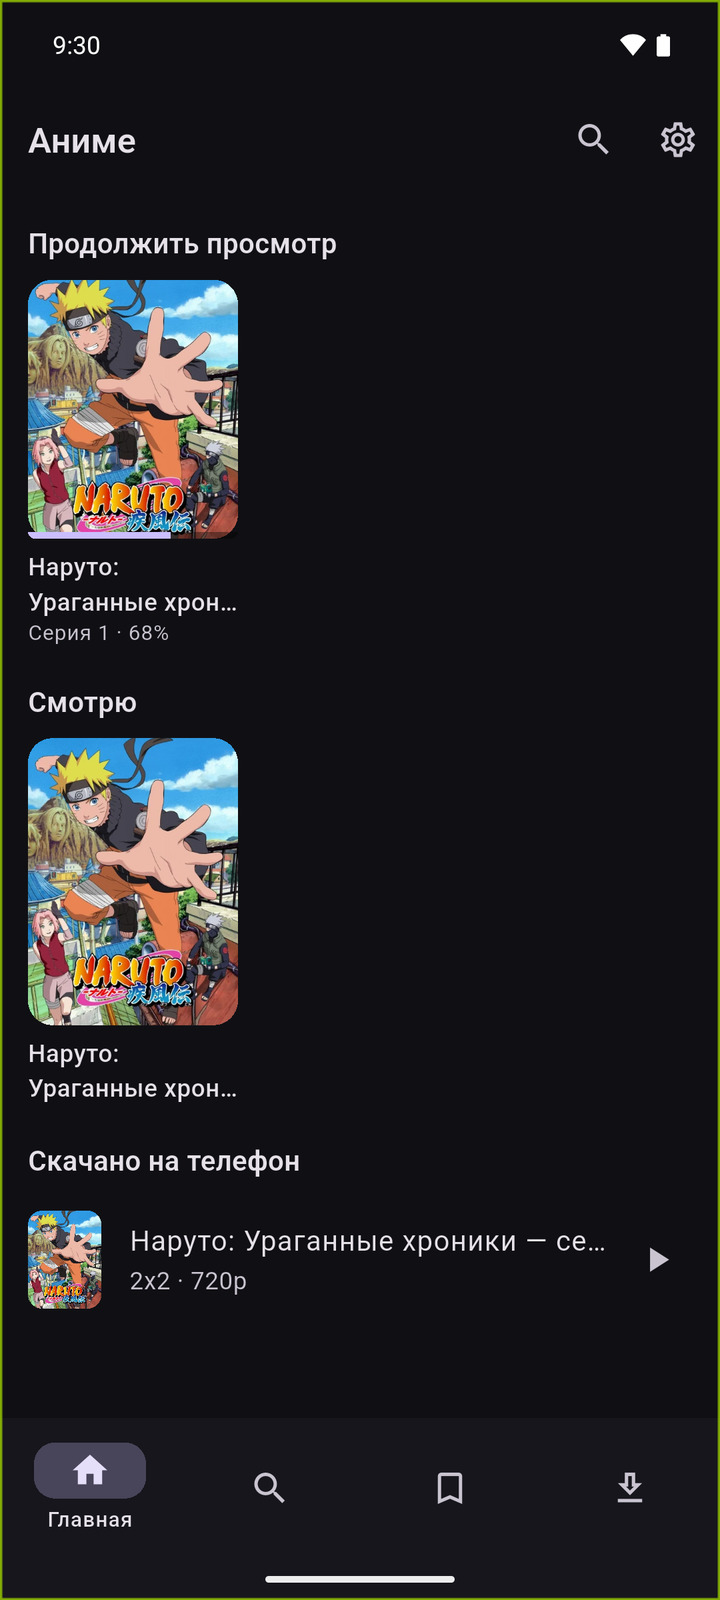
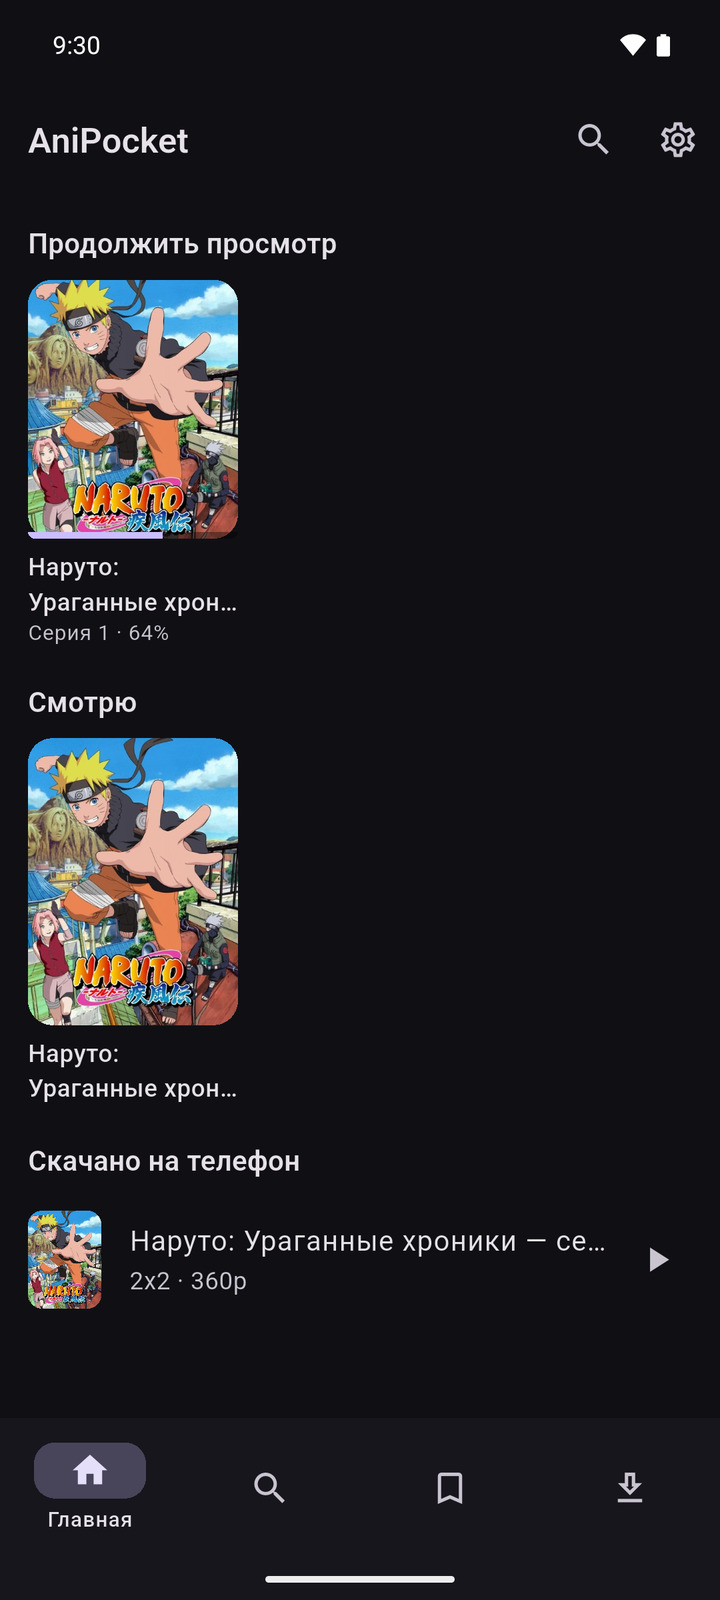
Call the app AniPocket
The launcher label, the task-switcher title and the home app bar all said
"Аниме" while everything else had moved to AniPocket. They now agree.

The fallback title in catalog.dart stays "Аниме" — that one stands in for
an anime whose name the source did not give us, and has nothing to do with
the name of the app.

Home screenshots retaken, since the app bar is in shot.

diff --git a/lib/app.dart b/lib/app.dart
@@ -18,7 +18,7 @@ class MobileAnimeApp extends StatelessWidget {
   Widget build(BuildContext context) {
     final settings = context.watch<SettingsStore>();
     return MaterialApp(
-      title: 'Аниме',
+      title: 'AniPocket',
       debugShowCheckedModeBanner: false,
       theme: buildTheme(Brightness.light),
       darkTheme: buildTheme(Brightness.dark),

diff --git a/lib/ui/home_screen.dart b/lib/ui/home_screen.dart
@@ -24,7 +24,7 @@ class HomeScreen extends StatelessWidget {
 
     return Scaffold(
       appBar: AppBar(
-        title: const Text('Аниме'),
+        title: const Text('AniPocket'),
         actions: [
           IconButton(
             icon: const Icon(Icons.search),
